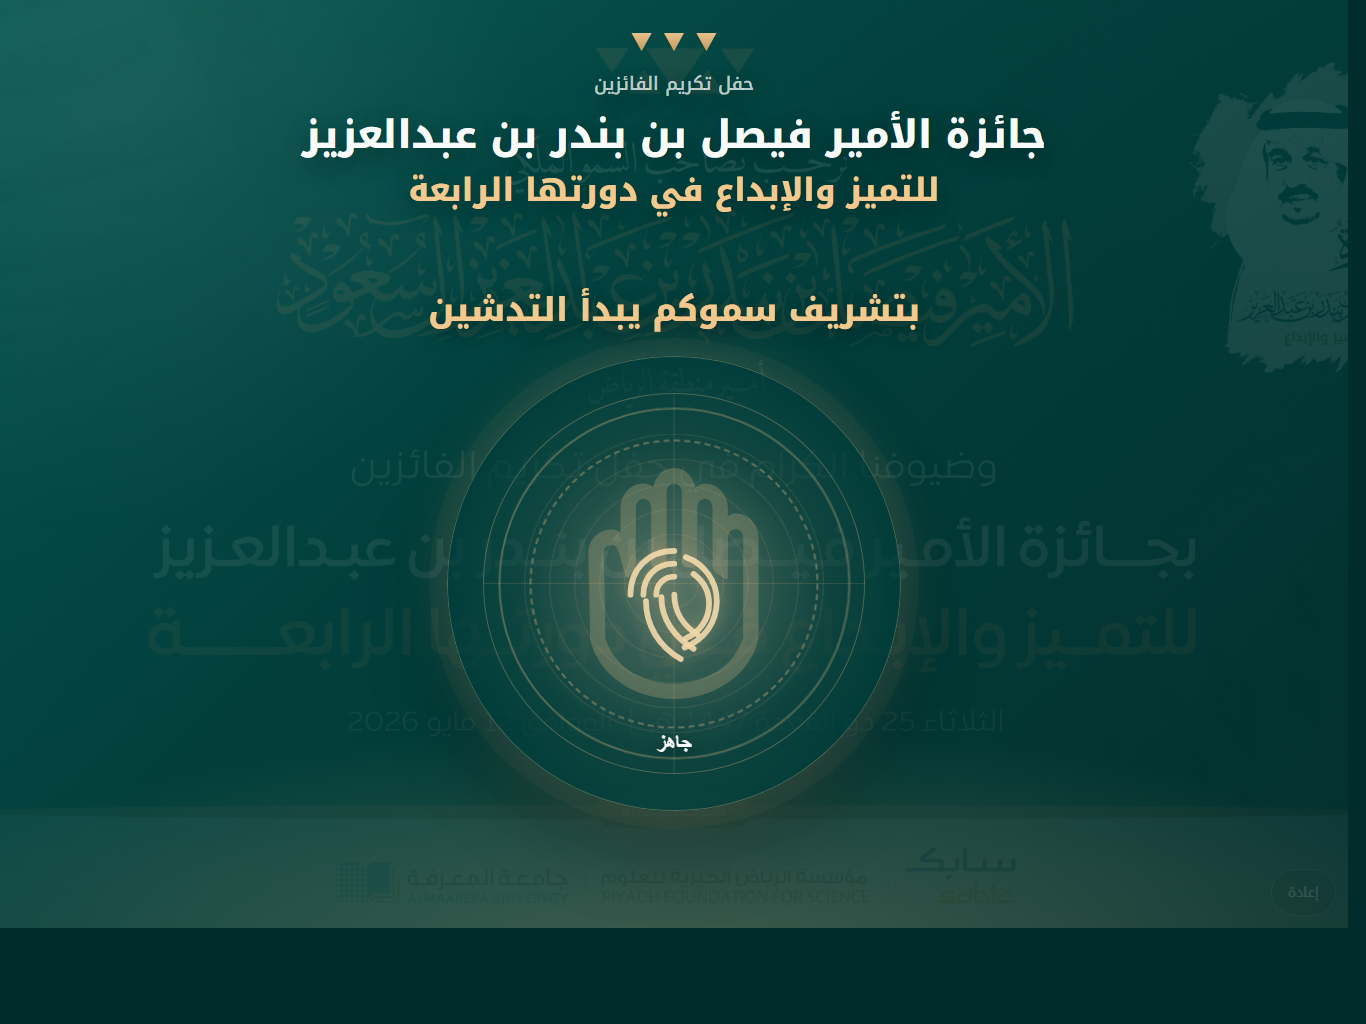
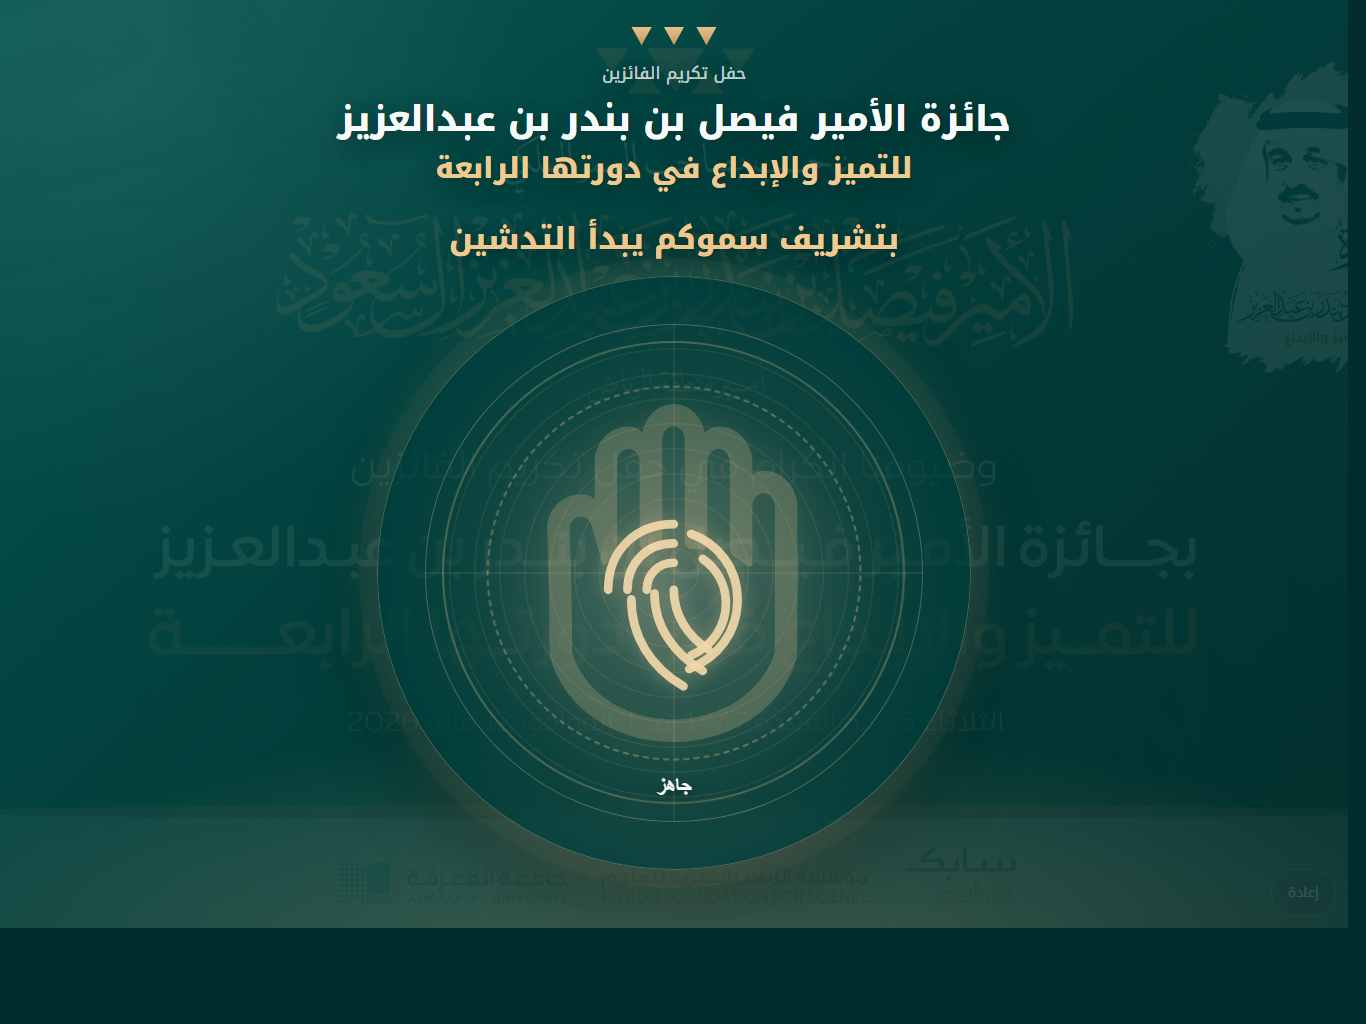
Enlarge palm activation area

diff --git a/styles.css b/styles.css
@@ -83,7 +83,7 @@ body {
   display: grid;
   grid-template-rows: auto minmax(0, 1fr);
   place-items: center;
-  padding: max(28px, var(--safe-top)) clamp(24px, 5vw, 84px) max(24px, var(--safe-bottom));
+  padding: max(22px, var(--safe-top)) clamp(20px, 4vw, 72px) max(18px, var(--safe-bottom));
   background:
     radial-gradient(circle at 50% 62%, rgba(242, 201, 143, 0.18), transparent 28%),
     radial-gradient(circle at 9% 12%, rgba(255, 255, 255, 0.12), transparent 28%),
@@ -129,7 +129,7 @@ body {
   width: min(1120px, 100%);
   display: grid;
   justify-items: center;
-  gap: clamp(5px, 0.9dvh, 10px);
+  gap: clamp(4px, 0.7dvh, 8px);
   padding-top: clamp(2px, 0.5dvh, 8px);
   text-align: center;
   text-shadow: 0 7px 24px rgba(0, 0, 0, 0.34);
@@ -158,38 +158,38 @@ body {
 
 .brand p {
   color: var(--muted);
-  font-size: clamp(16px, 2dvh, 24px);
+  font-size: clamp(15px, 1.8dvh, 22px);
   font-weight: 500;
 }
 
 .brand h1 {
   color: var(--white);
-  font-size: clamp(27px, 4.2dvh, 56px);
+  font-size: clamp(25px, 3.8dvh, 52px);
   font-weight: 800;
   line-height: 1.35;
 }
 
 .brand h2 {
   color: var(--gold-light);
-  font-size: clamp(22px, 3.45dvh, 46px);
+  font-size: clamp(21px, 3.1dvh, 42px);
   font-weight: 800;
   line-height: 1.32;
 }
 
 .activation {
-  width: min(880px, 100%);
+  width: min(980px, 100%);
   min-height: 0;
   display: grid;
   grid-template-rows: auto minmax(0, 1fr);
   place-items: center;
-  gap: clamp(14px, 2.4dvh, 26px);
-  padding-bottom: clamp(10px, 2dvh, 24px);
+  gap: clamp(10px, 1.6dvh, 18px);
+  padding-bottom: clamp(4px, 1dvh, 12px);
 }
 
 .status-line {
   min-height: 1.24em;
   color: var(--gold-light);
-  font-size: clamp(24px, 3.55dvh, 44px);
+  font-size: clamp(23px, 3.25dvh, 40px);
   font-weight: 800;
   line-height: 1.42;
   text-align: center;
@@ -198,7 +198,7 @@ body {
 
 .palm-pad {
   position: relative;
-  width: min(49dvh, 58vw, 500px);
+  width: min(64dvh, 70vw, 660px);
   aspect-ratio: 1 / 1;
   border: 0;
   border-radius: 50%;
@@ -270,7 +270,7 @@ body {
 .hand-mark {
   position: relative;
   z-index: 1;
-  width: 52%;
+  width: 58%;
   height: auto;
   display: block;
   opacity: 0.24;
@@ -282,7 +282,7 @@ body {
 .palm-print {
   position: absolute;
   z-index: 2;
-  width: 52%;
+  width: 58%;
   aspect-ratio: 1;
   transform: scaleX(-1);
   background:
@@ -300,7 +300,7 @@ body {
 .fingerprint-lines {
   position: absolute;
   z-index: 3;
-  width: 34%;
+  width: 39%;
   height: auto;
   transform: translateY(4%) scaleX(-1);
   fill: none;
@@ -514,32 +514,46 @@ body {
 
 @media (orientation: portrait) {
   .launch-screen {
-    padding-inline: clamp(18px, 4vw, 38px);
+    padding-inline: clamp(12px, 3vw, 28px);
     grid-template-rows: auto minmax(0, 1fr);
   }
 
   .brand {
-    gap: clamp(6px, 1dvh, 12px);
+    gap: clamp(3px, 0.6dvh, 8px);
+  }
+
+  .motif {
+    margin-bottom: 0;
+  }
+
+  .motif span {
+    width: clamp(15px, 1.8dvh, 22px);
+    height: clamp(13px, 1.6dvh, 20px);
+  }
+
+  .brand p {
+    font-size: clamp(14px, 1.65dvh, 20px);
   }
 
   .brand h1 {
-    max-width: 9.5em;
-    font-size: clamp(27px, 3.4dvh, 43px);
-    line-height: 1.44;
+    max-width: 9.8em;
+    font-size: clamp(24px, 3dvh, 37px);
+    line-height: 1.34;
   }
 
   .brand h2 {
-    max-width: 11em;
-    font-size: clamp(23px, 2.85dvh, 36px);
-    line-height: 1.38;
+    max-width: 11.5em;
+    font-size: clamp(20px, 2.45dvh, 31px);
+    line-height: 1.3;
   }
 
   .status-line {
-    font-size: clamp(24px, 3.05dvh, 38px);
+    font-size: clamp(23px, 2.8dvh, 35px);
+    line-height: 1.35;
   }
 
   .palm-pad {
-    width: min(38dvh, 74vw, 480px);
+    width: min(52dvh, 88vw, 680px);
   }
 }
 
